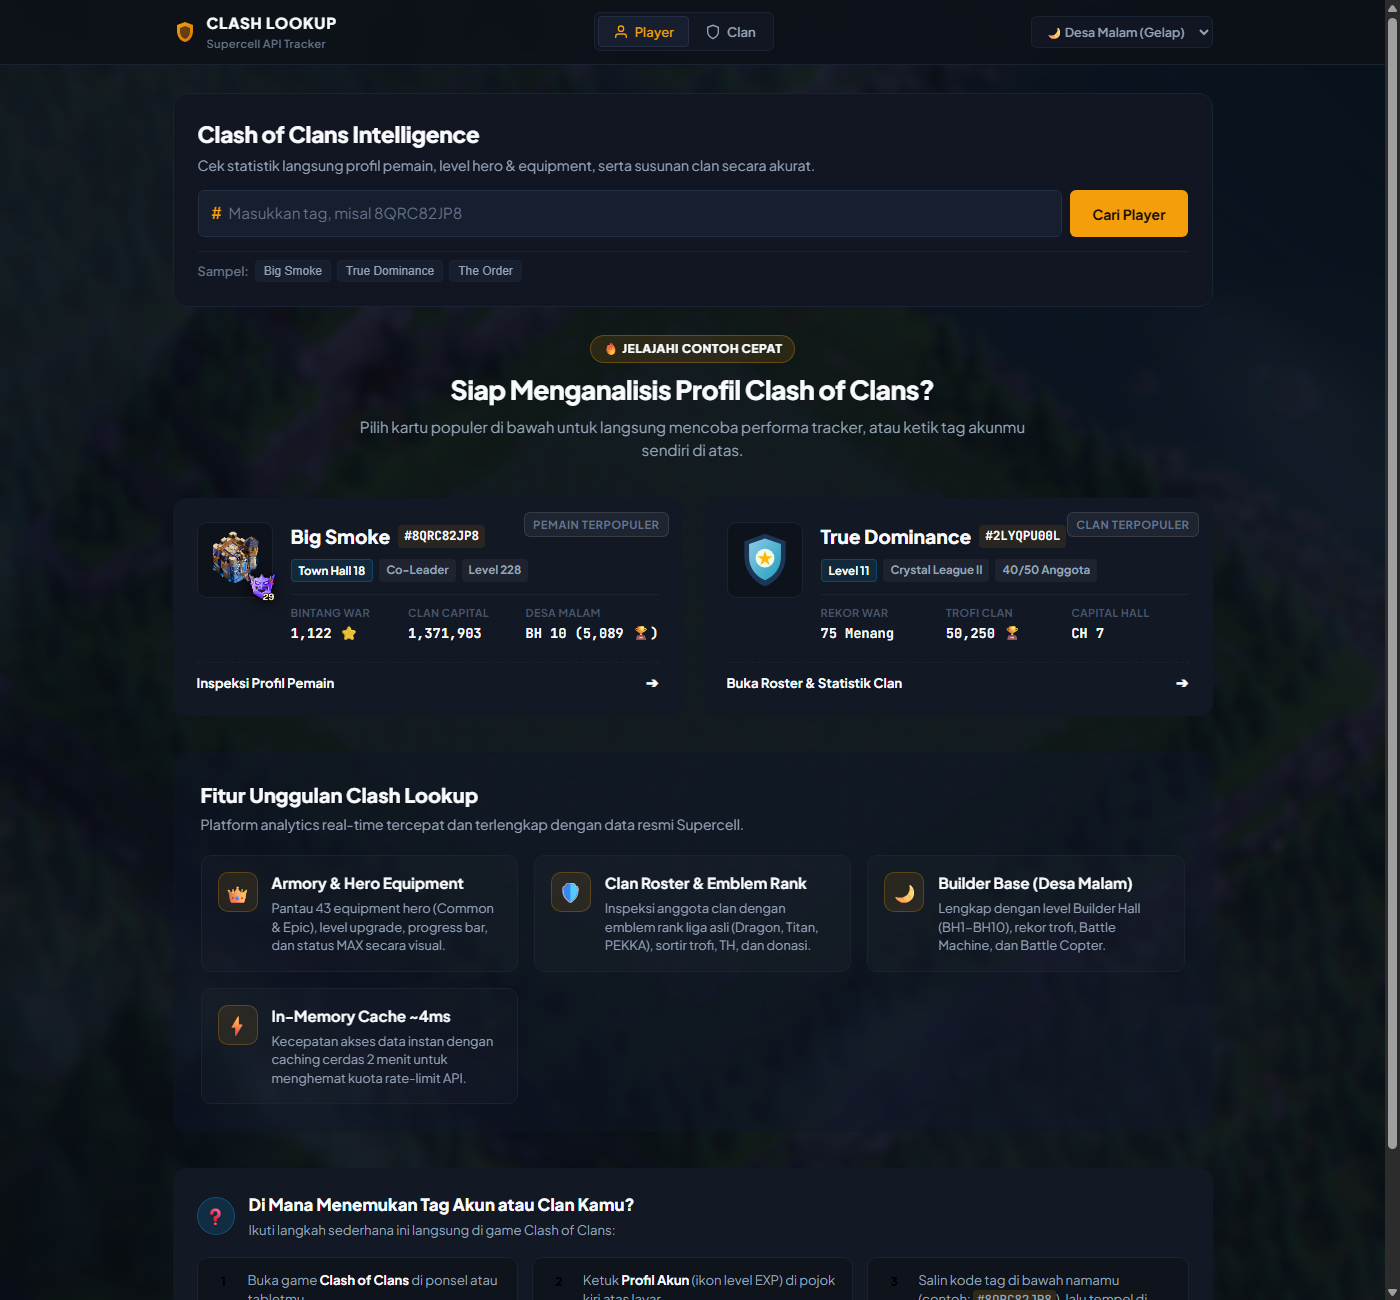
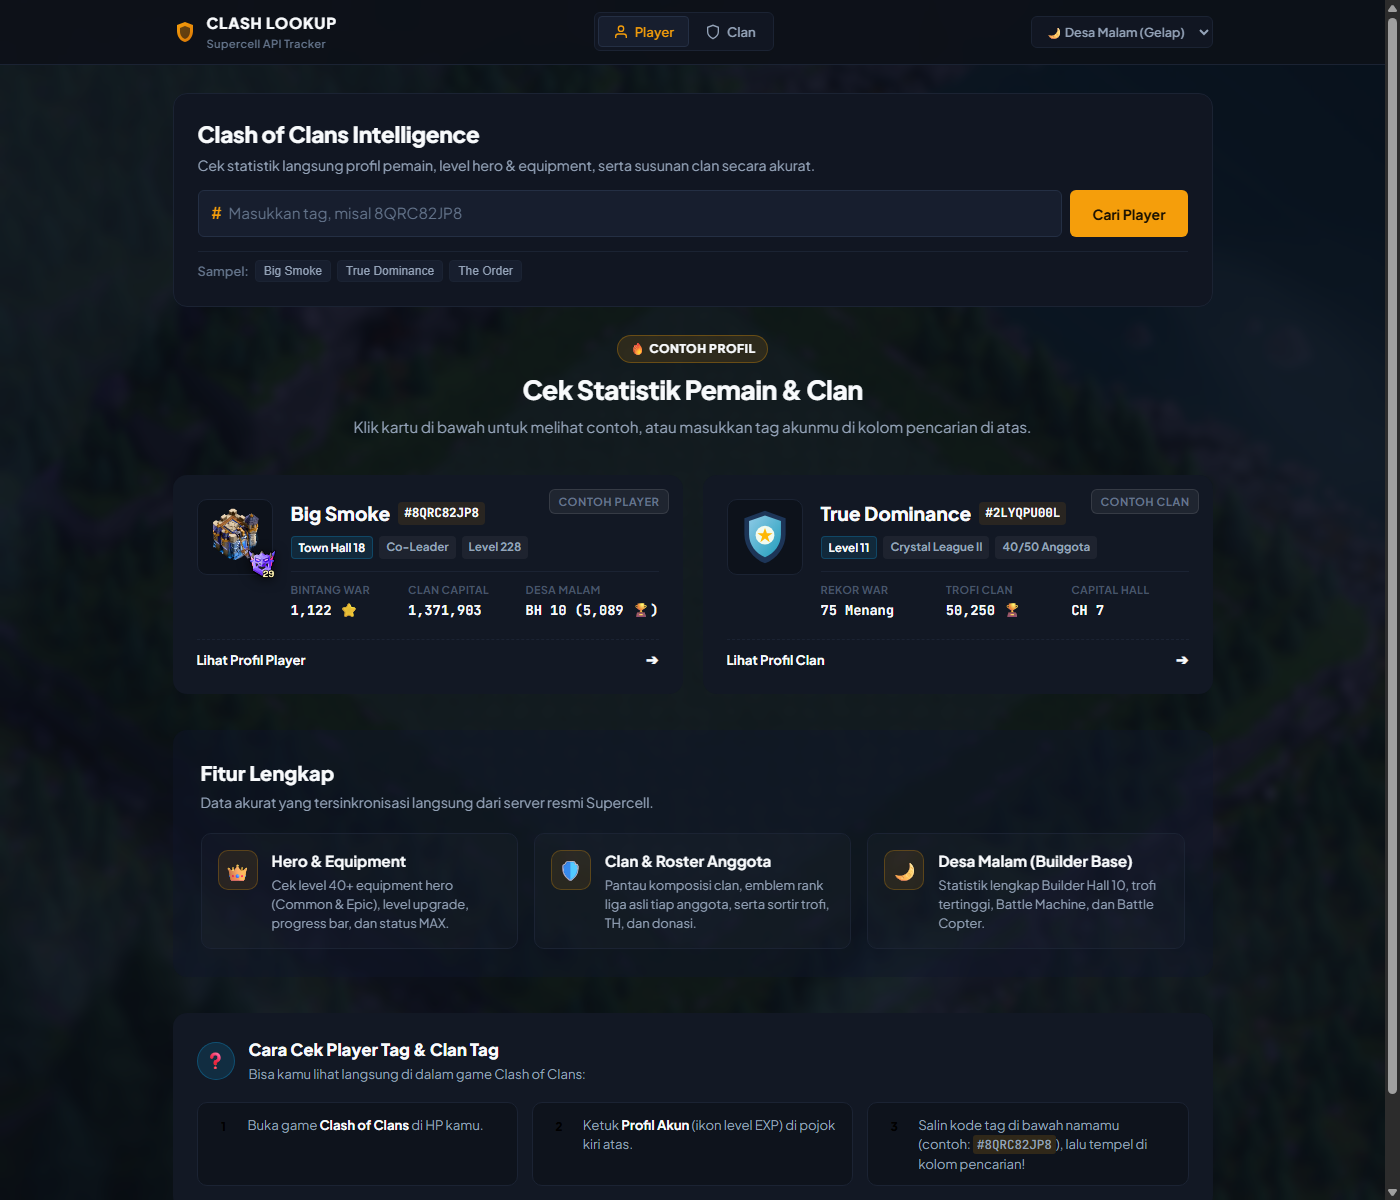
refactor(home): simplify copy and remove caching card for clean 3-col layout

diff --git a/public/index.html b/public/index.html
@@ -119,15 +119,15 @@
       <section id="homeWelcomeSection" class="home-welcome-section">
         <!-- Quick Spotlight Cards -->
         <div class="spotlight-header">
-          <span class="spotlight-badge">🔥 JELAJAHI CONTOH CEPAT</span>
-          <h2 class="spotlight-title">Siap Menganalisis Profil Clash of Clans?</h2>
-          <p class="spotlight-desc">Pilih kartu populer di bawah untuk langsung mencoba performa tracker, atau ketik tag akunmu sendiri di atas.</p>
+          <span class="spotlight-badge">🔥 CONTOH PROFIL</span>
+          <h2 class="spotlight-title">Cek Statistik Pemain & Clan</h2>
+          <p class="spotlight-desc">Klik kartu di bawah untuk melihat contoh, atau masukkan tag akunmu di kolom pencarian di atas.</p>
         </div>
 
         <div class="spotlight-grid">
           <!-- Spotlight Player Card -->
           <div class="spotlight-card spotlight-player" data-type="player" data-tag="#8QRC82JP8" role="button" tabindex="0">
-            <div class="spotlight-badge-corner">Pemain Terpopuler</div>
+            <div class="spotlight-badge-corner">Contoh Player</div>
             <div class="spotlight-card-body">
               <div class="spotlight-avatar-wrap">
                 <img class="spotlight-th-img" src="https://assets.clashk.ing/buildings/home-village/town_hall/level_18.webp" alt="TH 18" />
@@ -160,14 +160,14 @@
               </div>
             </div>
             <div class="spotlight-card-footer">
-              <span>Inspeksi Profil Pemain</span>
+              <span>Lihat Profil Player</span>
               <span class="footer-arrow">➔</span>
             </div>
           </div>
 
           <!-- Spotlight Clan Card -->
           <div class="spotlight-card spotlight-clan" data-type="clan" data-tag="#2LYQPU00L" role="button" tabindex="0">
-            <div class="spotlight-badge-corner">Clan Terpopuler</div>
+            <div class="spotlight-badge-corner">Contoh Clan</div>
             <div class="spotlight-card-body">
               <div class="spotlight-avatar-wrap">
                 <img class="spotlight-clan-badge" src="/assets/clan-temp.svg" alt="True Dominance" />
@@ -199,7 +199,7 @@
               </div>
             </div>
             <div class="spotlight-card-footer">
-              <span>Buka Roster & Statistik Clan</span>
+              <span>Lihat Profil Clan</span>
               <span class="footer-arrow">➔</span>
             </div>
           </div>
@@ -208,39 +208,31 @@
         <!-- Features Showcase Grid -->
         <div class="home-features-section">
           <div class="features-head">
-            <h3 class="features-title">Fitur Unggulan Clash Lookup</h3>
-            <p class="features-sub">Platform analytics real-time tercepat dan terlengkap dengan data resmi Supercell.</p>
+            <h3 class="features-title">Fitur Lengkap</h3>
+            <p class="features-sub">Data akurat yang tersinkronisasi langsung dari server resmi Supercell.</p>
           </div>
           <div class="features-grid">
             <div class="feature-box">
               <div class="feature-icon-bubble">👑</div>
               <div class="feature-content">
-                <h4 class="feature-heading">Armory & Hero Equipment</h4>
-                <p class="feature-text">Pantau 43 equipment hero (Common & Epic), level upgrade, progress bar, dan status MAX secara visual.</p>
+                <h4 class="feature-heading">Hero & Equipment</h4>
+                <p class="feature-text">Cek level 40+ equipment hero (Common & Epic), level upgrade, progress bar, dan status MAX.</p>
               </div>
             </div>
 
             <div class="feature-box">
               <div class="feature-icon-bubble">🛡</div>
               <div class="feature-content">
-                <h4 class="feature-heading">Clan Roster & Emblem Rank</h4>
-                <p class="feature-text">Inspeksi anggota clan dengan emblem rank liga asli (Dragon, Titan, PEKKA), sortir trofi, TH, dan donasi.</p>
+                <h4 class="feature-heading">Clan & Roster Anggota</h4>
+                <p class="feature-text">Pantau komposisi clan, emblem rank liga asli tiap anggota, serta sortir trofi, TH, dan donasi.</p>
               </div>
             </div>
 
             <div class="feature-box">
               <div class="feature-icon-bubble">🌙</div>
               <div class="feature-content">
-                <h4 class="feature-heading">Builder Base (Desa Malam)</h4>
-                <p class="feature-text">Lengkap dengan level Builder Hall (BH1-BH10), rekor trofi, Battle Machine, dan Battle Copter.</p>
-              </div>
-            </div>
-
-            <div class="feature-box">
-              <div class="feature-icon-bubble">⚡</div>
-              <div class="feature-content">
-                <h4 class="feature-heading">In-Memory Cache ~4ms</h4>
-                <p class="feature-text">Kecepatan akses data instan dengan caching cerdas 2 menit untuk menghemat kuota rate-limit API.</p>
+                <h4 class="feature-heading">Desa Malam (Builder Base)</h4>
+                <p class="feature-text">Statistik lengkap Builder Hall 10, trofi tertinggi, Battle Machine, dan Battle Copter.</p>
               </div>
             </div>
           </div>
@@ -251,22 +243,22 @@
           <div class="guide-header">
             <div class="guide-icon">❓</div>
             <div class="guide-title-box">
-              <h4 class="guide-title">Di Mana Menemukan Tag Akun atau Clan Kamu?</h4>
-              <p class="guide-subtitle">Ikuti langkah sederhana ini langsung di game Clash of Clans:</p>
+              <h4 class="guide-title">Cara Cek Player Tag & Clan Tag</h4>
+              <p class="guide-subtitle">Bisa kamu lihat langsung di dalam game Clash of Clans:</p>
             </div>
           </div>
           <div class="guide-steps-grid">
             <div class="guide-step">
               <div class="step-num">1</div>
-              <p class="step-text">Buka game <strong>Clash of Clans</strong> di ponsel atau tabletmu.</p>
+              <p class="step-text">Buka game <strong>Clash of Clans</strong> di HP kamu.</p>
             </div>
             <div class="guide-step">
               <div class="step-num">2</div>
-              <p class="step-text">Ketuk <strong>Profil Akun</strong> (ikon level EXP) di pojok kiri atas layar.</p>
+              <p class="step-text">Ketuk <strong>Profil Akun</strong> (ikon level EXP) di pojok kiri atas.</p>
             </div>
             <div class="guide-step">
               <div class="step-num">3</div>
-              <p class="step-text">Salin kode tag di bawah namamu (contoh: <code>#8QRC82JP8</code>), lalu tempel di kolom pencarian di atas!</p>
+              <p class="step-text">Salin kode tag di bawah namamu (contoh: <code>#8QRC82JP8</code>), lalu tempel di kolom pencarian!</p>
             </div>
           </div>
         </div>

diff --git a/public/css/home.css b/public/css/home.css
@@ -274,7 +274,7 @@
 
 .features-grid {
   display: grid;
-  grid-template-columns: repeat(auto-fit, minmax(240px, 1fr));
+  grid-template-columns: repeat(auto-fit, minmax(280px, 1fr));
   gap: 16px;
 }
 
@@ -456,3 +456,4 @@ body.bg-image-mode .spotlight-avatar-wrap {
     grid-template-columns: 1fr;
   }
 }
+
